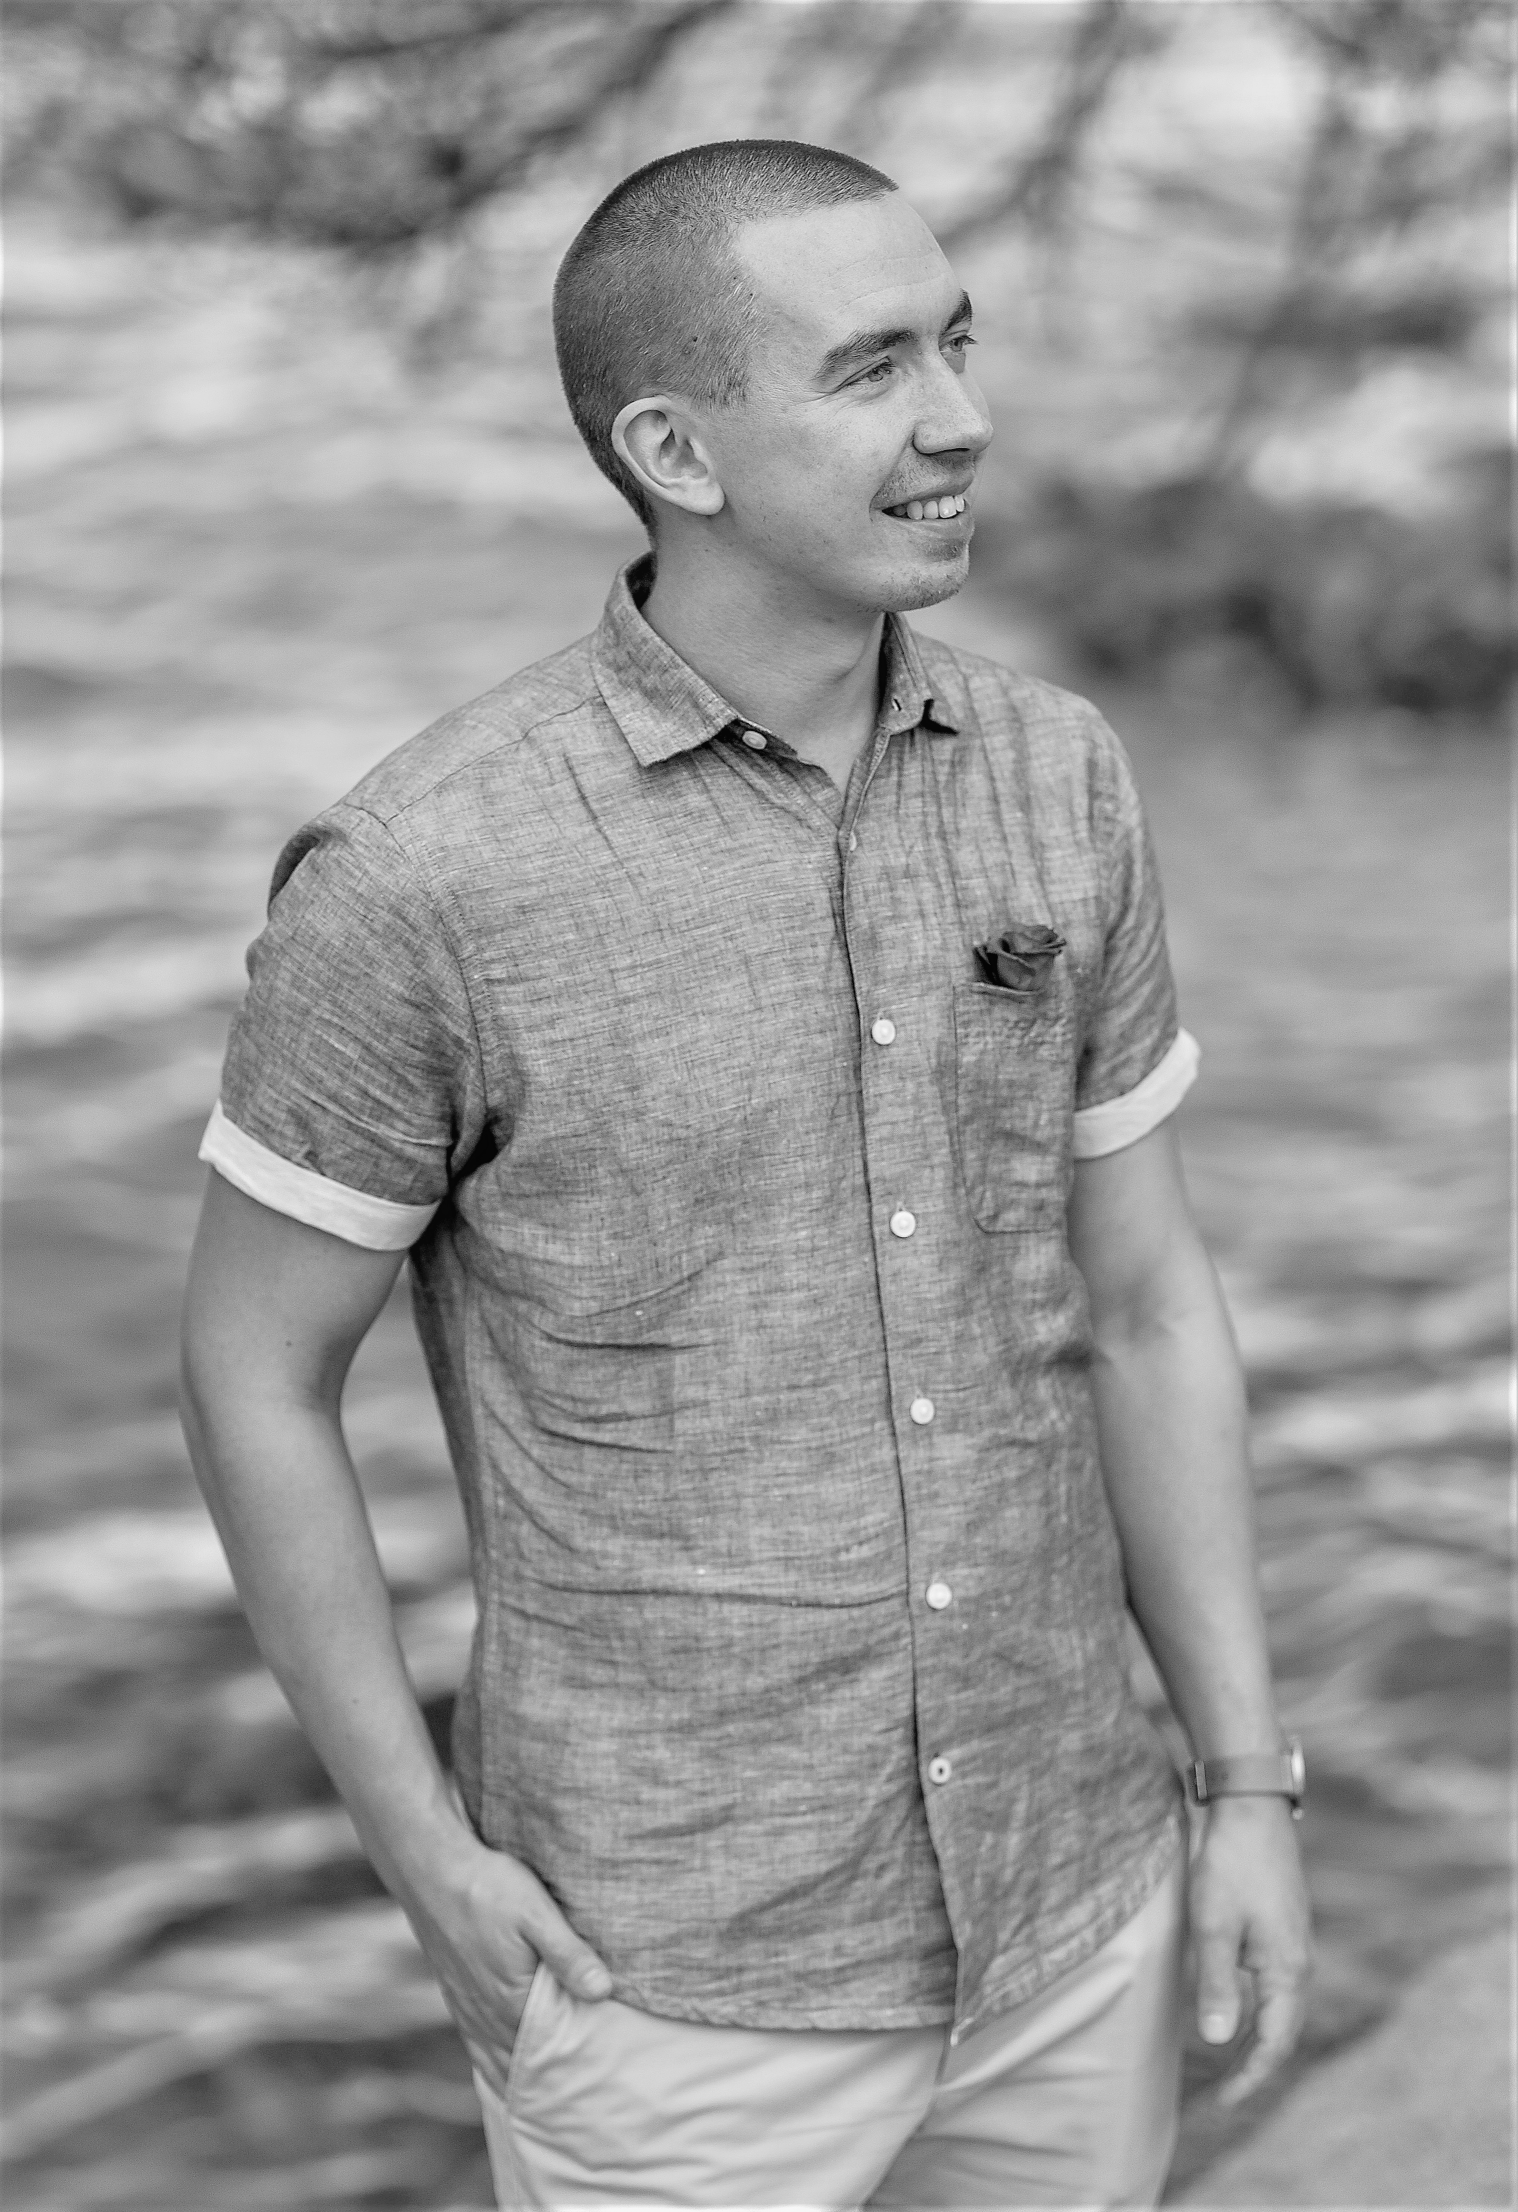
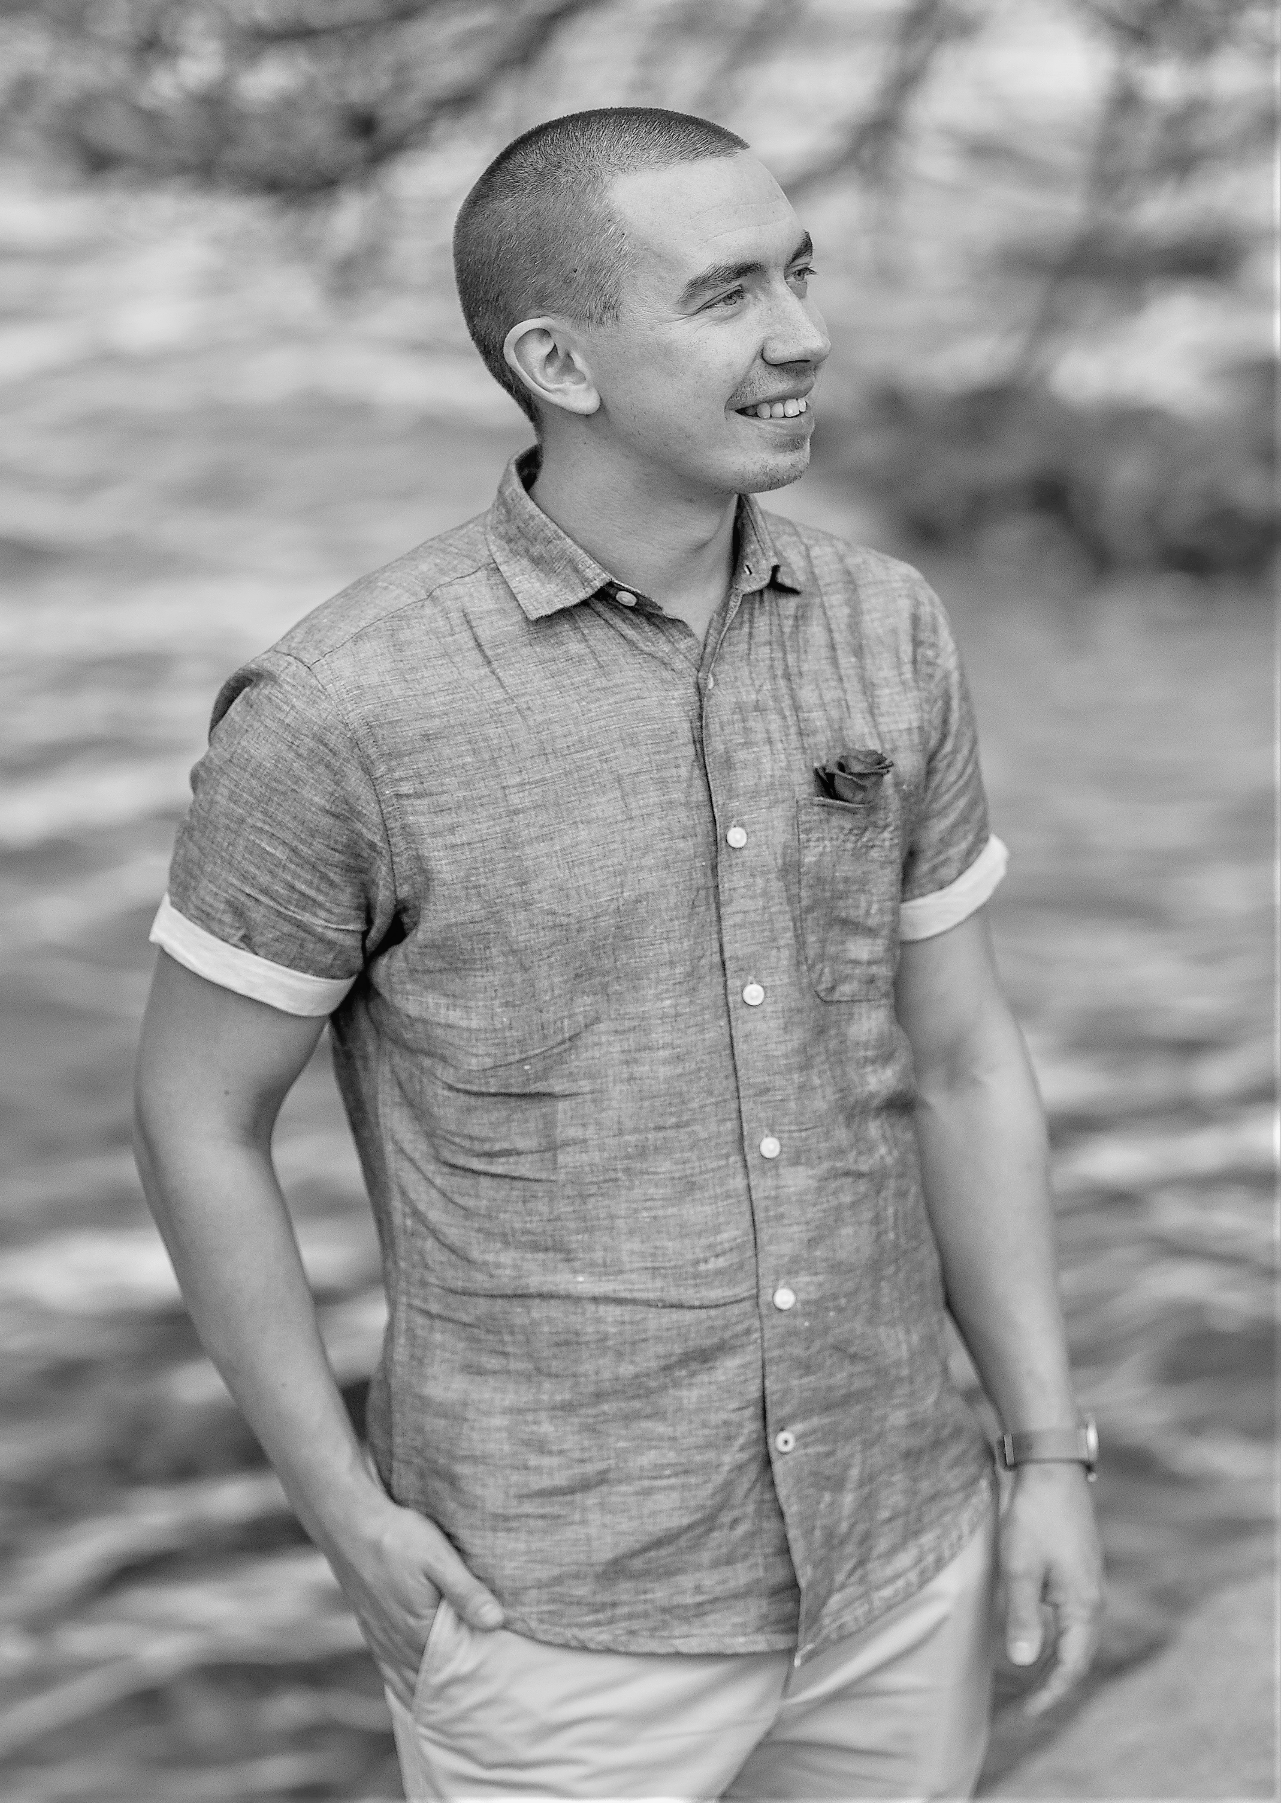
fix image size

diff --git a/src/components/skills.js b/src/components/skills.js
@@ -6,9 +6,11 @@ const Skills = (props) => {
 		<Grid>
 			<Cell col={12}>
 				<div style={{ display: 'flex' }}>
-					<div style={{ minWidth: '20%' }}>{props.skill}</div>
+					<div style={{ minWidth: '20%' }}>
+						<text>{props.skill}</text>
+					</div>
 
-					<ProgressBar style={{ margin: 'auto', width: '75%' }} progress={props.progress} />
+					<ProgressBar style={{ margin: 'auto', width: '80%' }} progress={props.progress} />
 				</div>
 			</Cell>
 		</Grid>

diff --git a/src/components/projects.js b/src/components/projects.js
@@ -153,6 +153,10 @@ const Projects = () => {
 										Enkelt att lägga till, ta bort och ändra listorna, samma sak med dess
 										information.
 									</p>
+									<p>
+										Plattformen som används på denna mobilapplikation för att lagra data är
+										Firebase.
+									</p>
 									<h5>Sekretesspolicy för Create Your List: </h5>
 
 									<p>Denna app behandlar ej några känsliga användaruppgifter eller data.</p>

diff --git a/src/components/resume.js b/src/components/resume.js
@@ -29,7 +29,7 @@ const Resume = () => {
 					<div className="info-content">
 						<text className="info-label">Adress:</text>
 						<text className="info-text" style={{ textAlign: 'end' }}>
-							Klöverhagen 25 Vendelsö
+							Klöverhagen 25, Vendelsö
 						</text>
 					</div>
 					<div className="info-content">
